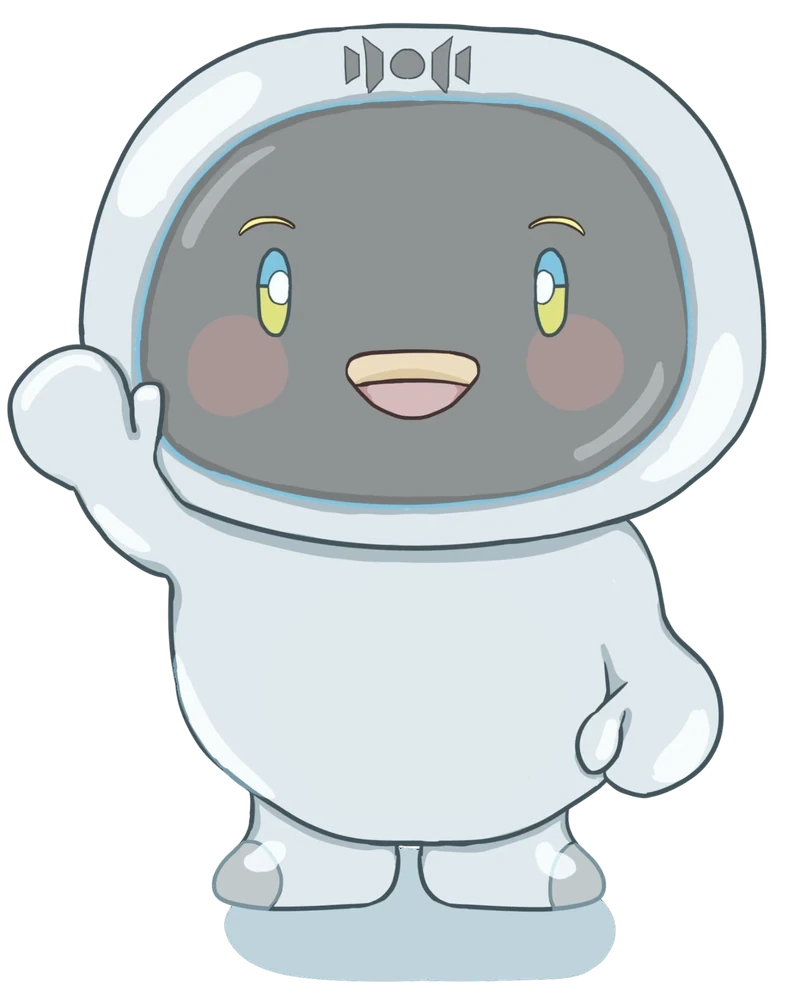
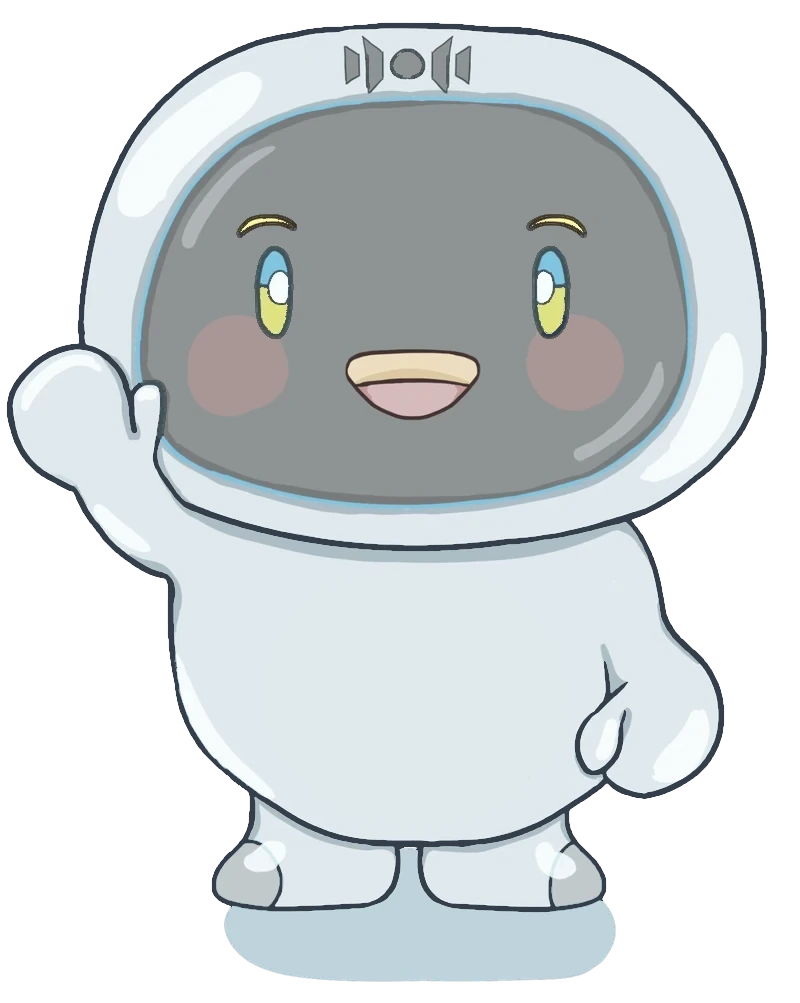
静止画のフロリの線を太く・スタート表示などの飾りをかわいい絵に

diff --git a/src/index.html b/src/index.html
@@ -34,7 +34,7 @@
   </div>
   <nav id="pager" class="pager" aria-label="ページ" hidden></nav>
   <div id="announce" class="overlay announce" aria-live="polite" hidden>
-    <div class="confetti" aria-hidden="true"><span>⭐</span><span>✨</span><span>🎈</span><span>🌸</span><span>💡</span><span>⭐</span><span>🎈</span><span>✨</span><span>🌸</span><span>💡</span></div>
+    <div class="confetti" aria-hidden="true"><span>💖</span><span>🌸</span><span>🦋</span><span>🎈</span><span>🎵</span><span>🍀</span><span>💖</span><span>🌸</span><span>🎈</span><span>🦋</span></div>
     <img id="announce-flori" class="announce-flori" alt="" hidden>
     <p id="announce-text" class="announce-text"></p>
   </div>
@@ -472,7 +472,7 @@
 
   <dialog id="dlg-unlock" class="dialog unlock-dialog" aria-labelledby="unlock-name">
     <div class="unlock-rays" aria-hidden="true"></div>
-    <div class="confetti" aria-hidden="true"><span>⭐</span><span>✨</span><span>🎈</span><span>🌸</span><span>💡</span><span>⭐</span><span>🎈</span><span>✨</span><span>🌸</span><span>💡</span></div>
+    <div class="confetti" aria-hidden="true"><span>💖</span><span>🌸</span><span>🦋</span><span>🎈</span><span>🎵</span><span>🍀</span><span>💖</span><span>🌸</span><span>🎈</span><span>🦋</span></div>
     <div class="unlock-body">
       <p id="unlock-kicker" class="unlock-kicker"></p>
       <div id="unlock-stage" class="unlock-stage">

diff --git a/tools/thick_static.py b/tools/thick_static.py
@@ -1,0 +1,87 @@
+"""静止画のフロリ(assets/flori/m/)の線を太くする(口はそのまま)。もとの絵は git の履歴に残っている。
+使い方: python tools/thick_static.py   (リポジトリの直下で)"""
+import numpy as np
+from PIL import Image
+from scipy import ndimage as ndi
+
+FILES = [("body_wave.webp", True), ("wave_smile.png", True), ("wave_nikkori.png", True), ("wave_surprised.png", True), ("wave_wrong.png", True), ("book_pen.png", False)]
+
+
+def process(path, face_parts):
+    src = Image.open(path).convert("RGBA")
+    a = np.array(src).astype(float)
+    H, W = a.shape[:2]
+    lum = a[..., :3].mean(axis=2)
+    opaque = a[..., 3] > 40
+    dark_strict = opaque & (lum < 152)
+    visor = ndi.binary_dilation(ndi.binary_erosion(dark_strict, iterations=5), iterations=6) & dark_strict
+    visor_zone = ndi.binary_dilation(visor, iterations=5)
+    cand = opaque & (lum < 150) & ~visor_zone
+    lab, n = ndi.label(cand, structure=np.ones((3, 3)))
+    sizes = ndi.sum(cand, lab, index=np.arange(1, n + 1))
+    keep = np.zeros(n + 1, bool)
+    keep[1:] = sizes >= 120
+    lines = keep[lab]
+    soft = ndi.gaussian_filter(lines.astype(float), sigma=1.1)
+    al = np.maximum(np.clip((soft - 0.30) / 0.25, 0, 1), lines.astype(float))
+    col = np.array([52, 62, 74], float)
+    body = a.copy()
+    for c in range(3):
+        body[..., c] = np.where(al > 0, a[..., c] * (1 - al) + col[c] * al, a[..., c])
+    body[..., 3] = np.maximum(a[..., 3], al * 255)
+    out = body
+    if face_parts:
+        visor_fill = ndi.binary_fill_holes(visor)
+        mx, mn = a[..., :3].max(axis=2), a[..., :3].min(axis=2)
+        sat = (mx - mn) / np.maximum(mx, 1)
+        feat = visor_fill & ((sat > 0.30) | (lum > 185) | (lum < 100))
+        lab2, n2 = ndi.label(feat, structure=np.ones((3, 3)))
+        objs = ndi.find_objects(lab2)
+        sz2 = ndi.sum(feat, lab2, index=np.arange(1, n2 + 1))
+        k2 = np.zeros(n2 + 1, bool)
+        k2[1:] = sz2 >= 25
+        feat = k2[lab2]
+        # 口(下の真ん中の大きなかたまり)は、太くしない
+        mouth_box = None
+        for i, sl in enumerate(objs, 1):
+            area = (lab2[sl] == i).sum()
+            cx = (sl[1].start + sl[1].stop) / 2
+            if area >= 1500 and 325 <= sl[0].start and sl[0].stop <= 440 and abs(cx - 415) < 45:
+                b = (sl[0].start - 14, sl[0].stop + 14, sl[1].start - 14, sl[1].stop + 14)
+                mouth_box = b if mouth_box is None else (min(mouth_box[0], b[0]), max(mouth_box[1], b[1]), min(mouth_box[2], b[2]), max(mouth_box[3], b[3]))
+        rgb = a[..., :3].copy()
+        sat_mask = feat & (sat > 0.30)
+        dark_mask = feat & (lum < 100) & ~sat_mask
+        white_mask = feat & ~sat_mask & ~dark_mask
+        bg = visor_fill & ~feat
+        assigned = np.zeros((H, W), bool)
+        new_rgb = rgb.copy()
+        shifts = sorted([(dy, dx) for dy in (-2, -1, 0, 1, 2) for dx in (-2, -1, 0, 1, 2) if (dy or dx) and dy * dy + dx * dx <= 5], key=lambda t: t[0] ** 2 + t[1] ** 2)
+        for cls in (sat_mask, dark_mask, white_mask):
+            for dy, dx in shifts:
+                cnd = np.roll(np.roll(cls, dy, 0), dx, 1) & bg & ~assigned
+                if cnd.any():
+                    shc = np.roll(np.roll(rgb, dy, 0), dx, 1)
+                    new_rgb[cnd] = shc[cnd]
+                    assigned |= cnd
+        alpha_soft = ndi.gaussian_filter(assigned.astype(float), 0.5)
+        alpha_soft = np.where(assigned, np.maximum(alpha_soft, 0.85), 0)
+        face = body.copy()
+        for c in range(3):
+            face[..., c] = np.where(assigned, body[..., c] * (1 - alpha_soft) + new_rgb[..., c] * alpha_soft, body[..., c])
+        if mouth_box:
+            y0, y1, x0, x1 = mouth_box
+            face[y0:y1, x0:x1] = a[y0:y1, x0:x1]
+        out = face
+    return Image.fromarray(np.clip(out, 0, 255).astype(np.uint8), "RGBA")
+
+
+if __name__ == "__main__":
+    for name, face_parts in FILES:
+        p = "assets/flori/m/" + name
+        im = process(p, face_parts)
+        if name.endswith(".webp"):
+            im.save(p, "WEBP", quality=92, method=6)
+        else:
+            im.save(p, optimize=True)
+        print(name, "ok")

diff --git a/docs/decisions.md b/docs/decisions.md
@@ -1187,3 +1187,7 @@ scheme.md の「未定の事項」を決めたらここに追記する。
 - 線ふとのフロリ:動くフロリのテクスチャ(顔・体・足・腕・眉・目)の線を太くした絵に差しかえた(口は、そのまま)。作りかたは `tools/thick_tex.py`(もとの絵は、git の履歴に残っている)。**静止画(assets/flori/ の png・webp)は、まだ、もとの線のまま**。
 - 新オープニング:落ちてくる飾りを、キラキラ(⭐✨💡)から、かわいい絵(ハート・桜・ちょうちょ・風船・音符・クローバー)に。ロゴがぽんと出て、「ひらめきクイズ」が1文字ずつ ぽんと出てから、はねる。スタート表示・ごほうびダイアログの飾りは、そのまま(キラキラ)。
 - 数字のふりがな(`furigana.js` の `digitMatch`):「ふりがな:全部」のとき、問題・選択肢・ヒント・解説(data-kana の中)の「数字+数え方」全体にルビ(3本=さんぼん)。読みの規則は docs/number-readings.xlsx のとおり。数え方のつかない数(式・番号)には、**つけない**。利用者の確認(表の「確認」の列)は、まだ返ってきていないので、案のまま入れた。「1日」は、ついたち。ただし「1日のうち・1日で・1日中・1日間」は、いちにち。
+
+## その99(2026-11-10)静止画の線ふと・スタート表示の飾り
+- 静止画のフロリ(`assets/flori/m/` の body_wave.webp・wave_smile/nikkori/surprised/wrong.png・book_pen.png)も、線を太くした(顔の眉・目・体の線。口はそのまま。book_pen は体の線だけ)。作りかたは `tools/thick_static.py`(もとの絵は、git の履歴に残っている)。`assets/flori/` 直下と `src/` の元の大きい絵・`face_smile_clean.png`・ロゴは、そのまま。
+- スタート表示・ごほうびダイアログの落ちてくる飾りも、キラキラから、かわいい絵(ハート・桜・ちょうちょ・風船・音符・クローバー)に。⭐(ご褒美の星)など、意味のある印は、そのまま。
